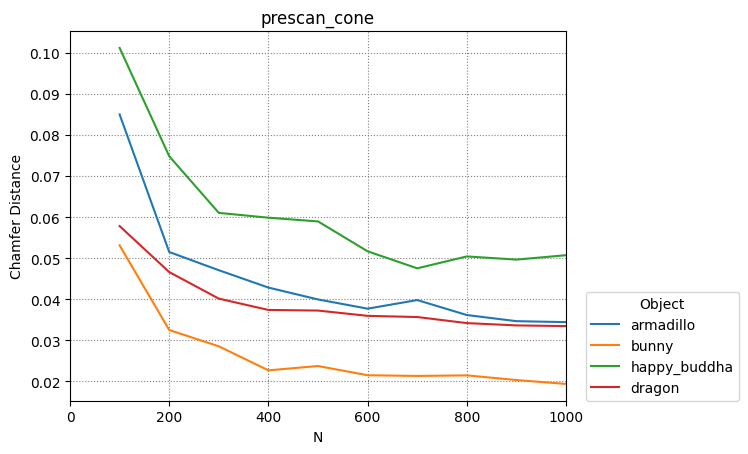
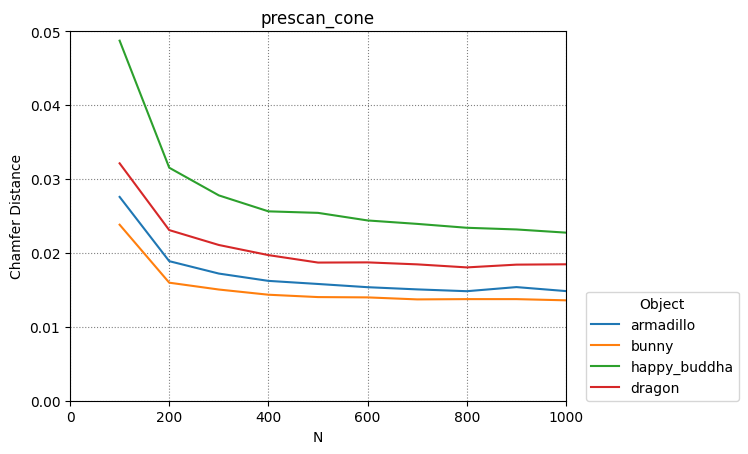
Per origin cone + analyse broad scan stage

diff --git a/analysis/optimize.py b/analysis/optimize.py
@@ -1,0 +1,93 @@
+import os
+import csv
+import argparse
+
+from ray_field import prescan_cone, baseline
+from analysis import ALGORITHM_LIST, N_VALUES, OBJECT_NAMES
+
+import matplotlib
+import matplotlib.pyplot as plt
+matplotlib.use('Agg')
+
+DIR_PATH = 'analysis/data/optimize/'
+
+def compute_values_prescan_cone(model_name: str) -> tuple[list[int], list[int], list[list[float]]]:
+    M_values = list(range(50, 201, 50))
+    distances = prescan_cone.prescan_cone_optimize(model_name, N_VALUES, M_values)
+
+    return M_values, N_VALUES, distances
+
+def save_results(M_values: list[int], N_values: list[int], distances: list[list[float]], algorithm: str, model_name: str) -> None:
+    if not os.path.exists(DIR_PATH):
+        os.makedirs(DIR_PATH)
+    
+    with open(f'{DIR_PATH}{algorithm}_{model_name}.csv', mode='w', newline='') as file:
+        writer = csv.writer(file)
+
+        writer.writerow(M_values)
+        writer.writerow(N_values)
+
+        for entry in distances:
+            writer.writerow(entry)
+
+def load_results(algorithm: str, model_name: str) -> tuple[list[int], list[int], list[list[float]]]:
+    with open(f'{DIR_PATH}{algorithm}_{model_name}.csv', mode='r') as file:
+        reader = csv.reader(file)
+        rows = list(reader)
+
+        M_values = [int(value) for value in rows[0]]
+        N_values = [int(value) for value in rows[1]]
+        distances = [[float(value) for value in row] for row in rows[2:]]
+    
+    return M_values, N_values, distances
+
+def plot_results(M_values: list[int], N_values: list[int], distances: list[list[float]], algorithm: str, model_name: str) -> None:
+    fig, ax = plt.subplots()
+
+    for i, entry in enumerate(distances):
+        ax.plot(N_values, entry, label=f'{M_values[i]}')
+    
+    ax.set_ylabel('Chamfer Distance')
+    ax.set_xlim([0, 1000])
+    #ax.set_ylim([0, 0.016])
+    ax.set_xlabel('N')
+    ax.set_title(f'{algorithm} - {model_name}')
+    ax.legend(loc=(1.04, 0), title='Object')
+    plt.grid(linestyle='dotted', color='grey')
+    fig.savefig(f'{DIR_PATH}{algorithm}_{model_name}.png', bbox_inches="tight")
+
+parser = argparse.ArgumentParser()
+parser.add_argument("-s", "--Save", action='store_true')
+parser.add_argument("-l", "--Load", action='store_true')
+parser.add_argument("-a", "--Algorithm", type=str)
+parser.add_argument("-f", "--Filename", type=str)
+
+args = parser.parse_args()
+
+if not args.Algorithm:
+    print('An algorithm must be specified')
+    exit()
+elif not args.Filename:
+    print('A filename must be specified')
+    exit()
+
+if args.Algorithm not in ALGORITHM_LIST:
+    print(f'"{args.Algorithm}" is not a valid key, valid keys are: {", ".join(ALGORITHM_LIST)}')
+    exit()
+elif args.Filename not in OBJECT_NAMES:
+    print(f'"{args.Filename}" is not a valid key, valid keys are: {", ".join(OBJECT_NAMES)}')
+    exit()
+
+if args.Load:
+    object_names, N_values, distances = load_results(args.Algorithm, args.Filename)
+    plot_results(object_names, N_values, distances, args.Algorithm, args.Filename)
+elif args.Save:
+    if args.Algorithm == 'baseline':
+        exit() # TODO: Implement
+    elif args.Algorithm == 'prescan_cone':
+        object_names, N_values, distances = compute_values_prescan_cone(args.Filename)
+    else:
+        exit()
+    
+    save_results(object_names, N_values, distances, args.Algorithm, args.Filename)
+    plot_results(object_names, N_values, distances, args.Algorithm, args.Filename)

diff --git a/ray_field/prescan_cone.py b/ray_field/prescan_cone.py
@@ -1,4 +1,5 @@
 import torch
+import numpy as np
 from ray_field import utils, CheckpointName, POISSON_DEPTH
 from open3d.geometry import TriangleMesh
 from numpy import ndarray
@@ -6,8 +7,31 @@ from numpy import ndarray
 PRESCAN_N = 100
 
 def generate_cone_rays(intersections: torch.Tensor, N: int, device: str) -> tuple[torch.Tensor, torch.Tensor]:
-    r = torch.norm(intersections, dim=1).max().item()
-    origins, dirs = utils.generate_cone_rays_between_sphere_points(N, r)
+    sphere_points = utils.generate_equidistant_sphere_points(N)
+    intersections_cpu = intersections.cpu().clone()
+    n = sphere_points.shape[0]
+    angles = np.zeros(n)
+
+    for i in range(n):
+        # Compute basis
+        z_axis = -sphere_points[i]
+        x_candidate = np.array([1, 0, 0]) if abs(z_axis[0]) < 0.9 else np.array([0, 1, 0])
+        x_axis = x_candidate - np.dot(x_candidate, z_axis) * z_axis
+        x_axis /= np.linalg.norm(x_axis)
+        y_axis = np.cross(z_axis, x_axis)
+
+        # Transform point cloud
+        rot_matrix = np.stack([x_axis, y_axis, z_axis])
+        transformed_points = torch.from_numpy(rot_matrix.astype(np.float32)) @ intersections_cpu.T
+
+        # Project to xz-plane
+        xz_projected = transformed_points[[0, 2], :].T
+
+        # Compute cone angle
+        r_max = torch.norm(xz_projected, dim=1).max().item()
+        angles[i] = np.arctan(r_max)
+
+    origins, dirs = utils.generate_rays_in_cone(sphere_points, angles)
     origins = origins.to(device)
     dirs = dirs.to(device)
 
@@ -95,6 +119,35 @@ def prescan_cone_chamfer(model_name: CheckpointName, N_values: list[int]) -> lis
 
             distances.append(distance)
             print(f'{distance:.6f}')
+            torch.cuda.empty_cache()
+
+    return distances
+
+def prescan_cone_optimize(model_name: CheckpointName, N_values: list[int], M_values: list[int]) -> list[list[float]]:
+    model, device = utils.init_model(model_name)
+
+    distances = []
+
+    with torch.no_grad():
+        for M in M_values:
+            origins, dirs = utils.generate_sphere_rays(device, M)
+            broad_intersections = prescan_cone_broad_scan(model, origins, dirs)
+            prescan_distances = []
+
+            for N in N_values:
+                print(f'M: {M}\tN: {N}', end='\t')
+
+                origins, dirs = generate_cone_rays(broad_intersections, N, device)
+                intersections, intersection_normals = prescan_cone_targeted_scan(model, origins, dirs)
+        
+                mesh = utils.poisson_surface_reconstruction(intersections, intersection_normals, POISSON_DEPTH)
+                distance = utils.chamfer_distance_to_stanford(model_name, mesh)
+
+                prescan_distances.append(distance)
+                print(f'{distance:.6f}')
+                torch.cuda.empty_cache()
+            
+            distances.append(prescan_distances)
             torch.cuda.empty_cache()
 
     return distances

diff --git a/ray_field/utils.py b/ray_field/utils.py
@@ -182,7 +182,7 @@ def find_max_angle_for_bounding_sphere(r: float) -> float:
     
     return alpha
 
-def generate_rays_in_cone(points: ndarray, n: int, alpha: float) -> tuple[torch.Tensor, torch.Tensor]:
+def generate_rays_in_cone(points: ndarray, angles: ndarray) -> tuple[torch.Tensor, torch.Tensor]:
     """
     Args:
     - points (ndarray[n, 3])
@@ -191,11 +191,12 @@ def generate_rays_in_cone(points: ndarray, n: int, alpha: float) -> tuple[torch.
     - origins (Tensor[n, 3], dtype=float32)
     - directions (Tensor[n, 1, n-1, 3], dtype=float32)
     """
+    n = points.shape[0]
     dirs: list = []
 
     random_generator = np.random.default_rng(0)
 
-    for i in range(points.shape[0]):
+    for i in range(n):
         dirs.append([[]])
 
         central_dir = -points[i]
@@ -206,7 +207,7 @@ def generate_rays_in_cone(points: ndarray, n: int, alpha: float) -> tuple[torch.
         
         for _ in range(n):
             theta = random_generator.uniform(0, 2 * np.pi)  # Azimuth angle
-            cos_beta = random_generator.uniform(np.cos(alpha), 1)  # Tilt angle
+            cos_beta = random_generator.uniform(np.cos(angles[i]), 1)  # Tilt angle
             sin_beta = np.sqrt(1 - cos_beta ** 2)
 
             direction = (cos_beta * central_dir + 
@@ -218,21 +219,6 @@ def generate_rays_in_cone(points: ndarray, n: int, alpha: float) -> tuple[torch.
     dirs = torch.Tensor(np.array(dirs)).to(torch.float32)
 
     return origins, dirs
-
-def generate_cone_rays_between_sphere_points(N: int, r: float) -> tuple[torch.Tensor, torch.Tensor]:
-    """
-    Args:
-    - N (ndarray[n, 3])
-
-    Returns:
-    - origins (Tensor[n, 3], dtype=float32)
-    - directions (Tensor[n, 1, n-1, 3], dtype=float32)
-    """
-    sphere_points: ndarray = generate_equidistant_sphere_points(N, 1.0)
-    alpha = find_max_angle_for_bounding_sphere(r)
-    n = np.size(sphere_points, 0)
-    
-    return generate_rays_in_cone(sphere_points, n - 1, alpha)
 
 def init_model(model_name: CheckpointName) -> tuple[intersection_fields.IntersectionFieldAutoDecoderModel, str]:
     checkpoint = get_checkpoint(model_name)

diff --git a/test.py b/test.py
@@ -1,24 +1,5 @@
-from ray_field import baseline, utils
-import trimesh
-import mesh_to_sdf
-import numpy as np
+import open3d as o3d
+from ray_field import prescan_cone
 
-from ifield.data.stanford import read as stanford_read
-
-N_SAMPLES = 30000
-
-print('Start')
-stanford_mesh = stanford_read.read_mesh('lucy')
-print('Mesh read')
-stanford_mesh = mesh_to_sdf.scale_to_unit_sphere(stanford_mesh)
-print('Mesh scaled')
-
-generated_mesh = baseline.baseline('lucy', 600)
-print('New mesh generated')
-
-stanford_samples = trimesh.sample.sample_surface_even(stanford_mesh, N_SAMPLES)[0]
-generated_samples = np.asarray(generated_mesh.sample_points_uniformly(N_SAMPLES).points)
-print('Surfaces sampled')
-
-distance: float = utils.chamfer_distance(stanford_samples, generated_samples)
-print(distance)
+generated_mesh = prescan_cone.prescan_cone('bunny', 400)
+o3d.visualization.draw_geometries([generated_mesh])

diff --git a/analysis/chamfer.py b/analysis/chamfer.py
@@ -59,7 +59,7 @@ def plot_results(object_names: list[str], N_values: list[int], distances: list[l
     
     ax.set_ylabel('Chamfer Distance')
     ax.set_xlim([0, 1000])
-    #ax.set_ylim([0, 1.0])
+    ax.set_ylim([0, 0.05])
     ax.set_xlabel('N')
     ax.set_title(algorithm)
     ax.legend(loc=(1.04, 0), title='Object')
